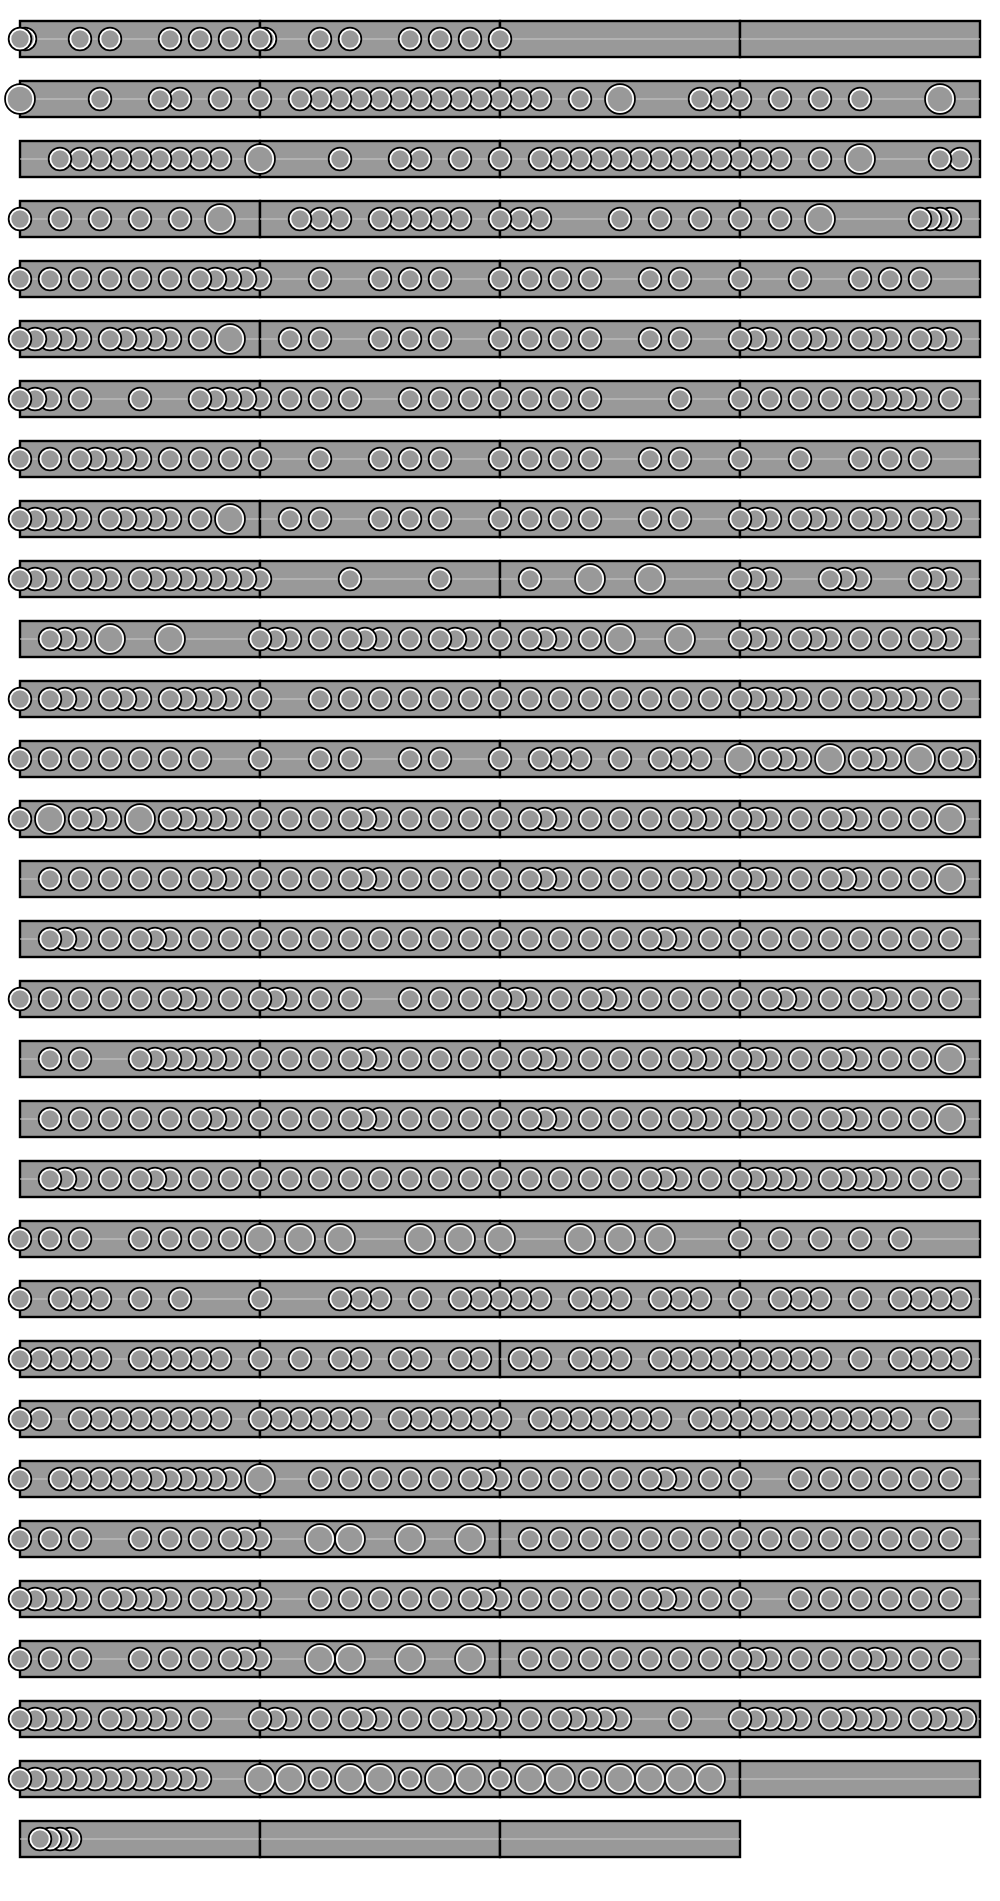
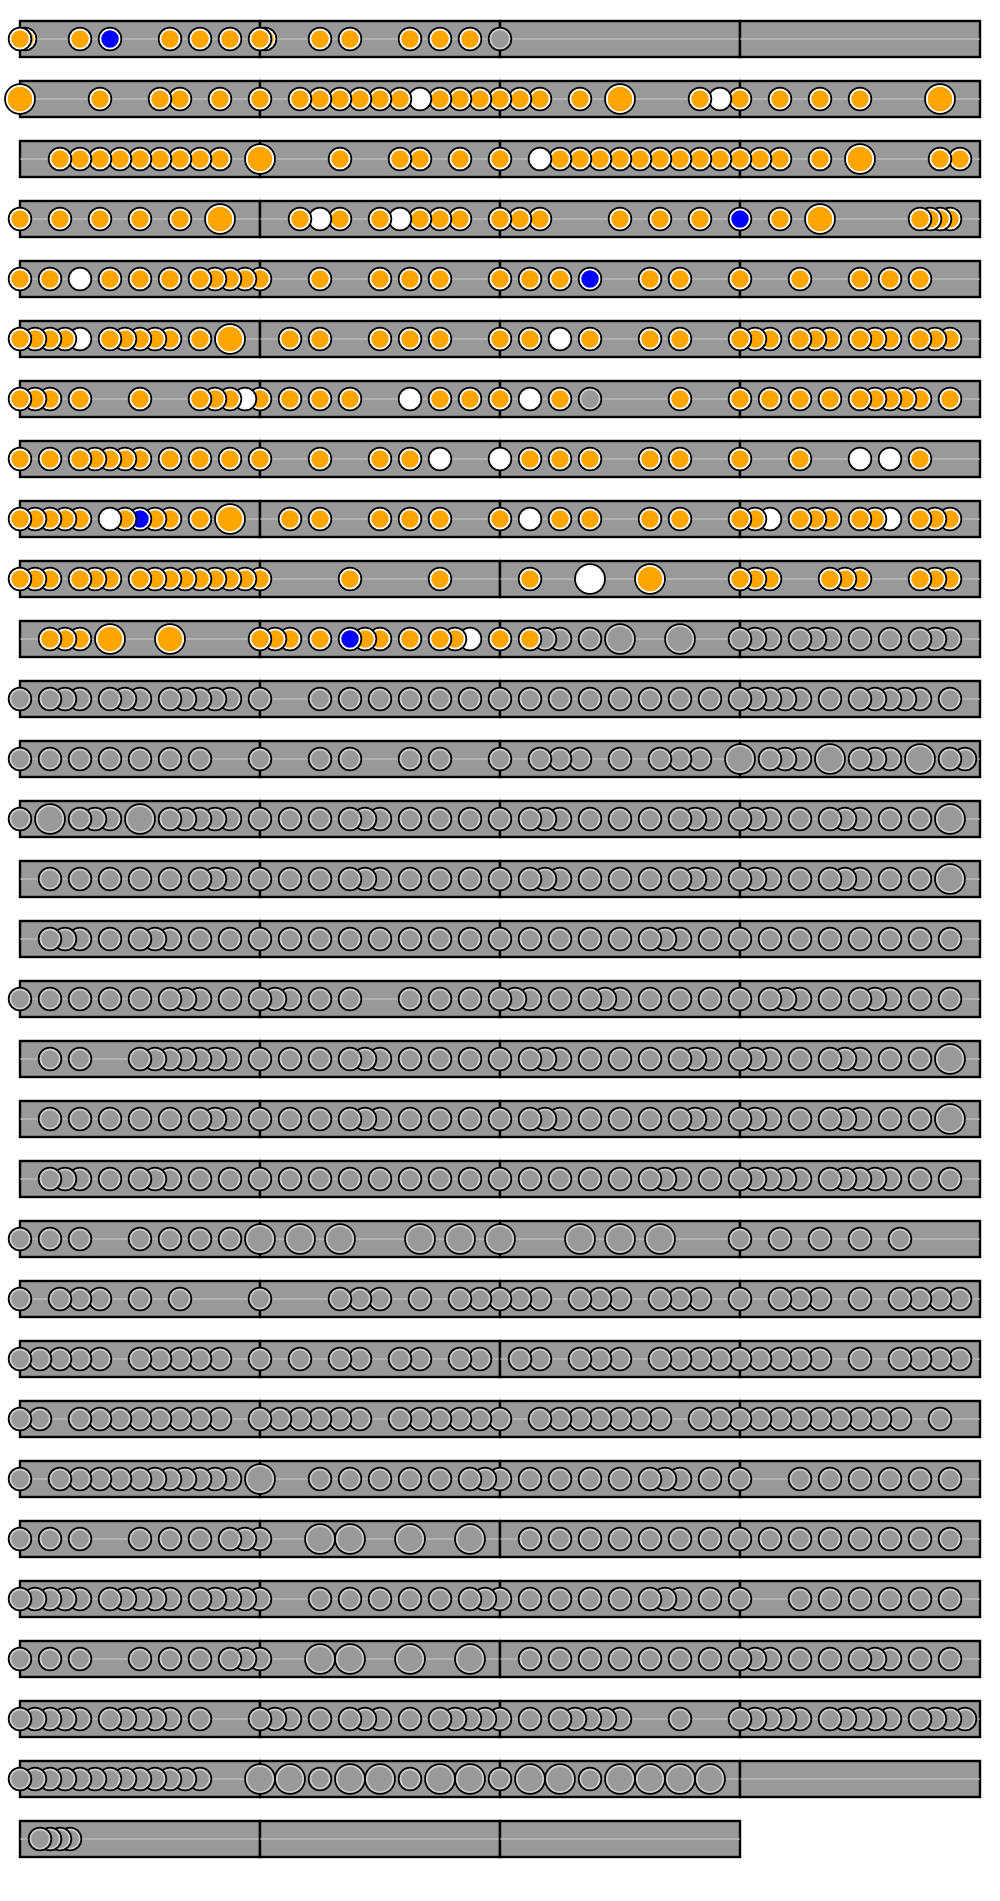
Update judgement style with fill colors. More helpful judgement snapshot image.

Changed region(s): [[0.0, 0.0, 0.961, 0.3414], [0.0, 0.0, 0.031, 0.0621]]

diff --git a/capture-judgements.spec.ts b/capture-judgements.spec.ts
@@ -1,0 +1,49 @@
+import { test } from '@playwright/test';
+
+test('capture judgements state', async ({ page }) => {
+    // Navigate to the app
+    await page.goto('/');
+
+    // Switch to Judgements view
+    await page.check('input[name="viewMode"][value="judgements"]');
+
+    // Simple seeded PRNG (Linear Congruential Generator)
+    // using glibc parameters: m = 2^31, a = 1103515245, c = 12345
+    let seed = 12345;
+    const nextRandom = () => {
+        seed = (1103515245 * seed + 12345) % 2147483648;
+        return seed / 2147483648;
+    };
+
+    // Generate 300 judgements with organic distribution
+    // 90% Perfect, 9% Good, 1% Poor
+    const judgements: string[] = [];
+    for (let i = 0; i < 300; i++) {
+        const rand = nextRandom();
+        if (rand < 0.90) {
+            judgements.push('Perfect');
+        } else if (rand < 0.99) {
+            judgements.push('Good');
+        } else {
+            judgements.push('Poor');
+        }
+    }
+
+    // Inject judgements
+    await page.evaluate((data) => {
+        (window as any).setJudgements(data);
+    }, judgements);
+
+    // Select the canvas
+    const canvas = page.locator('#chart-canvas');
+    await canvas.waitFor({ state: 'visible' });
+
+    // Wait for render (although setJudgements calls refreshChart, a small tick helps ensure canvas is updated)
+    await page.waitForTimeout(500);
+
+    // Save the screenshot
+    const outputPath = 'judgements.png';
+    await canvas.screenshot({ path: outputPath });
+    
+    console.log(`Snapshot saved to: ${outputPath}`);
+});

diff --git a/src/renderer.ts b/src/renderer.ts
@@ -182,15 +182,17 @@ function drawBarNotes(ctx: CanvasRenderingContext2D, bar: string[], x: number, y
             let borderColor = '#fff'; // Default white border
 
             if (viewMode === 'judgements') {
-                color = '#999'; // Keep the grey fill from previous task
-                borderColor = '#ccc'; // Default grey border for unreached notes ("grey boarder instead of a white one")
+                color = '#999'; // Default unjudged fill color (Grey)
+                borderColor = '#ccc'; // Default unjudged border color (Grey)
                 
                 const globalIndex = judgeableIndicesInBar[i];
                 if (globalIndex !== null && globalIndex < judgements.length) {
                     const judge = judgements[globalIndex];
-                    if (judge === 'Perfect') borderColor = 'orange';
-                    else if (judge === 'Good') borderColor = 'white';
-                    else if (judge === 'Poor') borderColor = 'blue';
+                    borderColor = '#fff'; // Revert to standard white border for judged notes
+                    
+                    if (judge === 'Perfect') color = 'orange';
+                    else if (judge === 'Good') color = 'white';
+                    else if (judge === 'Poor') color = 'blue';
                 }
             }
 

diff --git a/src/main.ts b/src/main.ts
@@ -73,6 +73,12 @@ function init(): void {
         }
     });
 
+    // Expose for testing
+    (window as any).setJudgements = (newJudgements: string[]) => {
+        judgements = newJudgements;
+        refreshChart();
+    };
+
     try {
         console.log("Starting TJA Analyzer...");
         parsedBars = parseTJA(exampleTJA);

diff --git a/src/judgement-client.ts b/src/judgement-client.ts
@@ -105,7 +105,7 @@ export class JudgementClient {
             if (this.onMessageCallback) {
                 this.onMessageCallback(event);
             }
-        }, 500 + Math.random() * 500); // 0.5 - 1s
+        }, 100 + Math.random() * 200); // 0.1 - 0.3s
     }
 
     onMessage(callback: EventCallback) {
